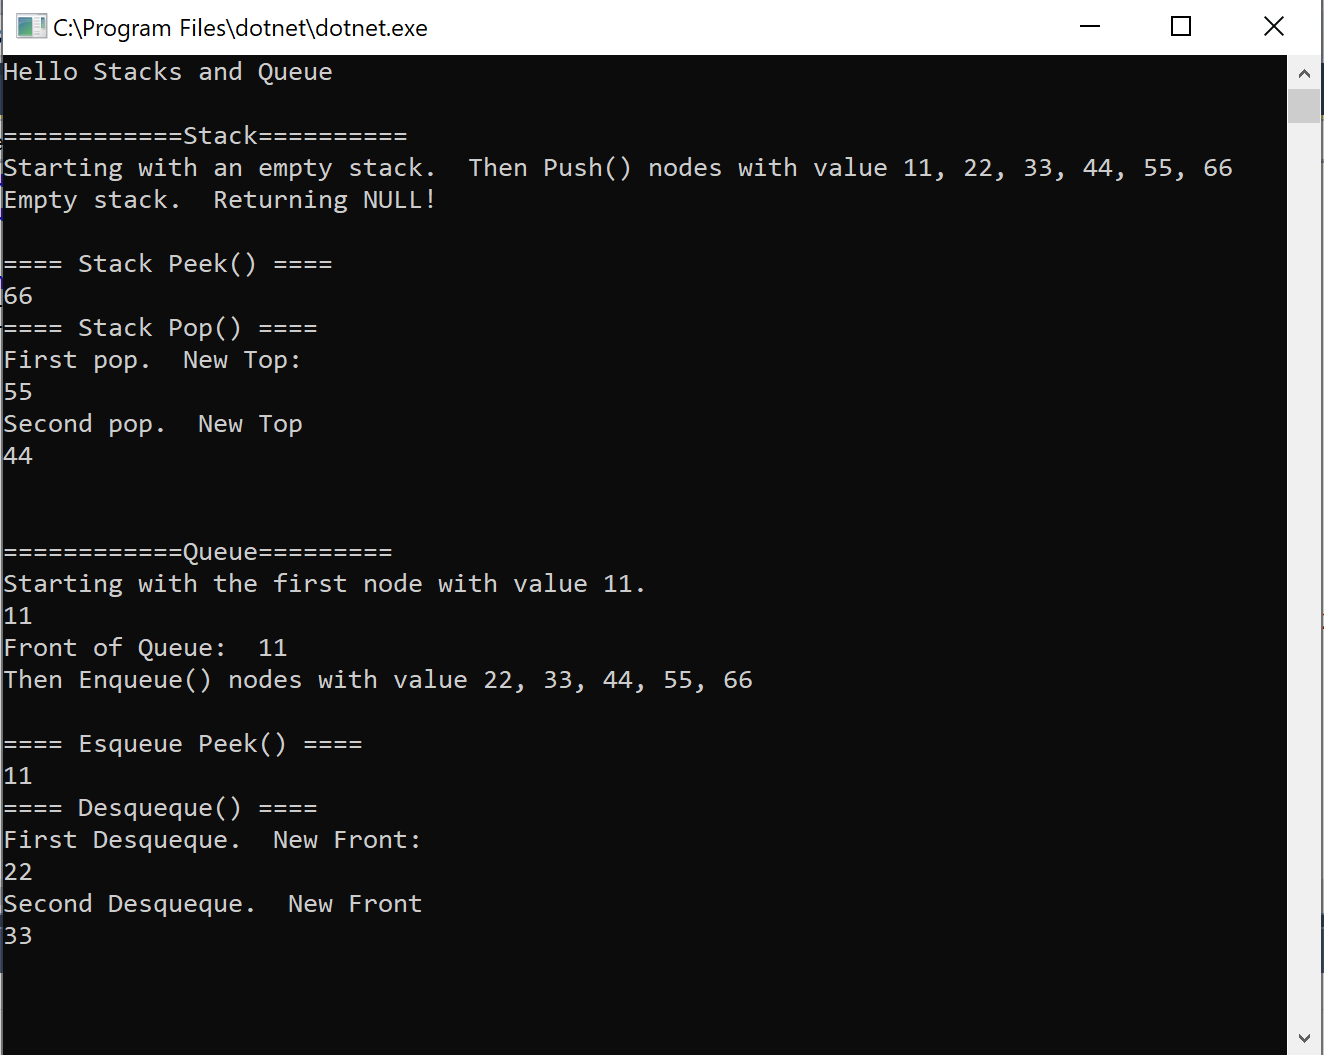
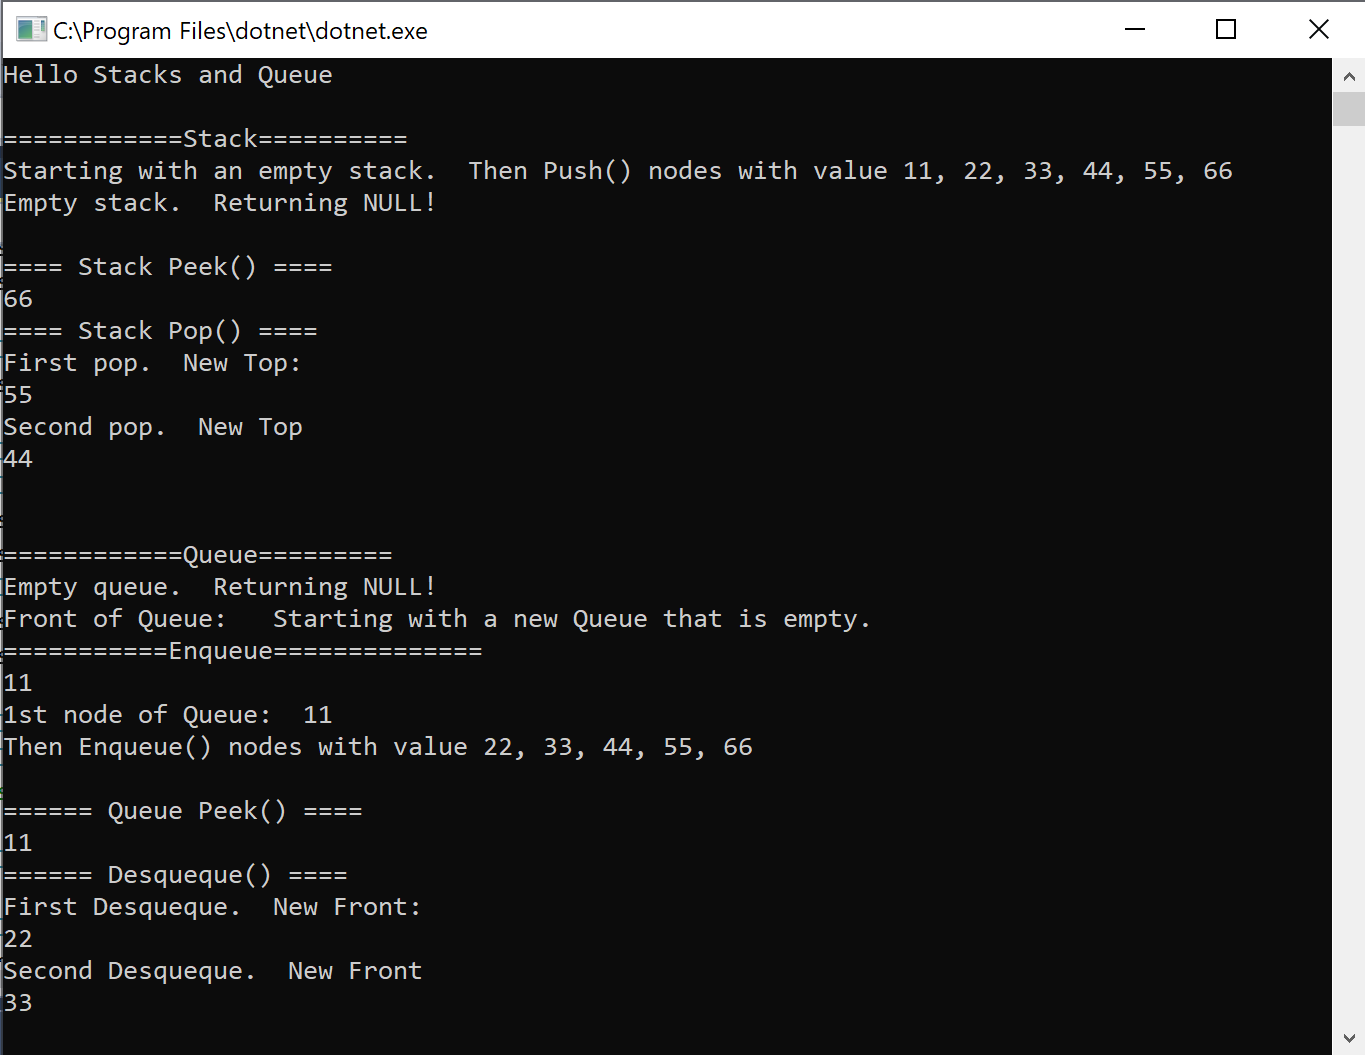
got queue null working

diff --git a/Data-Structures/Lab10StacksAndQueue/StacksAndQueue/StacksAndQueue/Program.cs b/Data-Structures/Lab10StacksAndQueue/StacksAndQueue/StacksAndQueue/Program.cs
@@ -47,11 +47,14 @@ namespace StacksAndQueue
 
             Console.WriteLine("\n");
             Console.WriteLine("============Queue=========");
-            Console.WriteLine("Starting with the first node with value 11. ");
-            Queue carlosQueue = new Queue(nodeOne);
-            Console.WriteLine($"Front of Queue:  {carlosQueue.Peek().Value}");
-            Console.WriteLine("Then Enqueue() nodes with value 22, 33, 44, 55, 66");
+            //Console.WriteLine("Starting with a new Queue that is empty.");
+            Queue carlosQueue = new Queue(null);
+            Console.WriteLine($"Front of Queue:  {carlosQueue.Peek()} Starting with a new Queue that is empty.");
 
+            Console.WriteLine("===========Enqueue==============");
+            carlosQueue.Enqueque(nodeOne);
+            Console.WriteLine($"1st node of Queue:  {carlosQueue.Peek().Value}");
+            Console.WriteLine("Then Enqueue() nodes with value 22, 33, 44, 55, 66");
             carlosQueue.Enqueque(nodeTwo);
             carlosQueue.Enqueque(nodeThree);
             carlosQueue.Enqueque(nodeFour);
@@ -59,10 +62,10 @@ namespace StacksAndQueue
             carlosQueue.Enqueque(nodeSix);
 
             Console.WriteLine("");
-            Console.WriteLine("==== Esqueue Peek() ====");
+            Console.WriteLine("====== Queue Peek() ====");
             carlosQueue.Peek();
 
-            Console.WriteLine("==== Desqueque() ====");
+            Console.WriteLine("====== Desqueque() ====");
             Console.WriteLine("First Desqueque.  New Front:");
             carlosQueue.Dequeque();
             carlosQueue.Peek();

diff --git a/Data-Structures/Lab10StacksAndQueue/StacksAndQueue/StacksAndQueueTDD/UnitTest1.cs b/Data-Structures/Lab10StacksAndQueue/StacksAndQueue/StacksAndQueueTDD/UnitTest1.cs
@@ -137,17 +137,17 @@ namespace StacksAndQueueTDD
 
         //******************Queue***************
         /// <summary>
-        /// Test for Enqueue
+        /// Test for Enqueue.  Including if queue is empty.null
         /// </summary>
         [Fact]
-        public void EnqueueOne()
+        public void EnqueueFour()
         {
             Node nodeTestOne = new Node(1);
             Node nodeTestTwo = new Node(2);
-            Queue testQueue = new Queue(nodeTestOne);
+            Queue testQueue = new Queue(null);
             //testQueue.Enqueque(nodeTestOne);
 
-            Assert.Equal(nodeTestTwo, testQueue.Enqueque(nodeTestTwo));
+            Assert.Equal(testQueue.Front,testQueue.Peek());
         }
         [Fact]
         public void EnqueueThree()
@@ -172,6 +172,16 @@ namespace StacksAndQueueTDD
             testQueue.Enqueque(nodeTestTwo);
 
             Assert.Equal(nodeTestThree, testQueue.Enqueque(nodeTestThree));
+        }
+        [Fact]
+        public void EnqueueOne()
+        {
+            Node nodeTestOne = new Node(1);
+            Node nodeTestTwo = new Node(2);
+            Queue testQueue = new Queue(nodeTestOne);
+            //testQueue.Enqueque(nodeTestOne);
+
+            Assert.Equal(nodeTestTwo, testQueue.Enqueque(nodeTestTwo));
         }
 
         /// <summary>

diff --git a/Data-Structures/Lab10StacksAndQueue/StacksAndQueue/StacksAndQueue/Classes/Queue.cs b/Data-Structures/Lab10StacksAndQueue/StacksAndQueue/StacksAndQueue/Classes/Queue.cs
@@ -33,14 +33,17 @@ namespace StacksAndQueue.Classes
         public Node Enqueque(Node node)
         {
             try
-            {
-                if (node == null)
+            {   
+                if (Front == null)
                 {
-                    Console.WriteLine("Sorry.  There is no queue right now.");
-                    return null;
+                    Rear = node;
+                    Front = node;
+                    //Console.WriteLine("Sorry.  There is no queue right now.");
+                    //return null;
                 }
                 else
                 {
+                
                     Rear.Next = node;
                     Rear = node;
                     return node;
@@ -81,10 +84,10 @@ namespace StacksAndQueue.Classes
         {
             try
             {
-                if (Front == null)
+                if ((Front == null) && (Rear == null))
                 {
                     Console.WriteLine("Empty queue.  Returning NULL!");
-                    return null;
+                    return Front;
                 }
                 else
                 {

diff --git a/Data-Structures/Lab10StacksAndQueue/README.md b/Data-Structures/Lab10StacksAndQueue/README.md
@@ -16,7 +16,7 @@ Stacks:
 - Define a method Pop() which removes the node from the Top of the stack and returns that value.  New Top is assigned.
 - Define a method Peek() which returns the Top value.  
 Queue:
-- Be able to create a queue..
+- Be able to create an empty (null) queue without returning an exception.
 - Define a Front & Rear property for the new queue.
 - Define a method Enqueue() which takes any value and adds a new node to the Rear of the queue.
 - Define a method Desqueue() which removes the node from the front of the queue and returns that value.  New Front is assigned.
